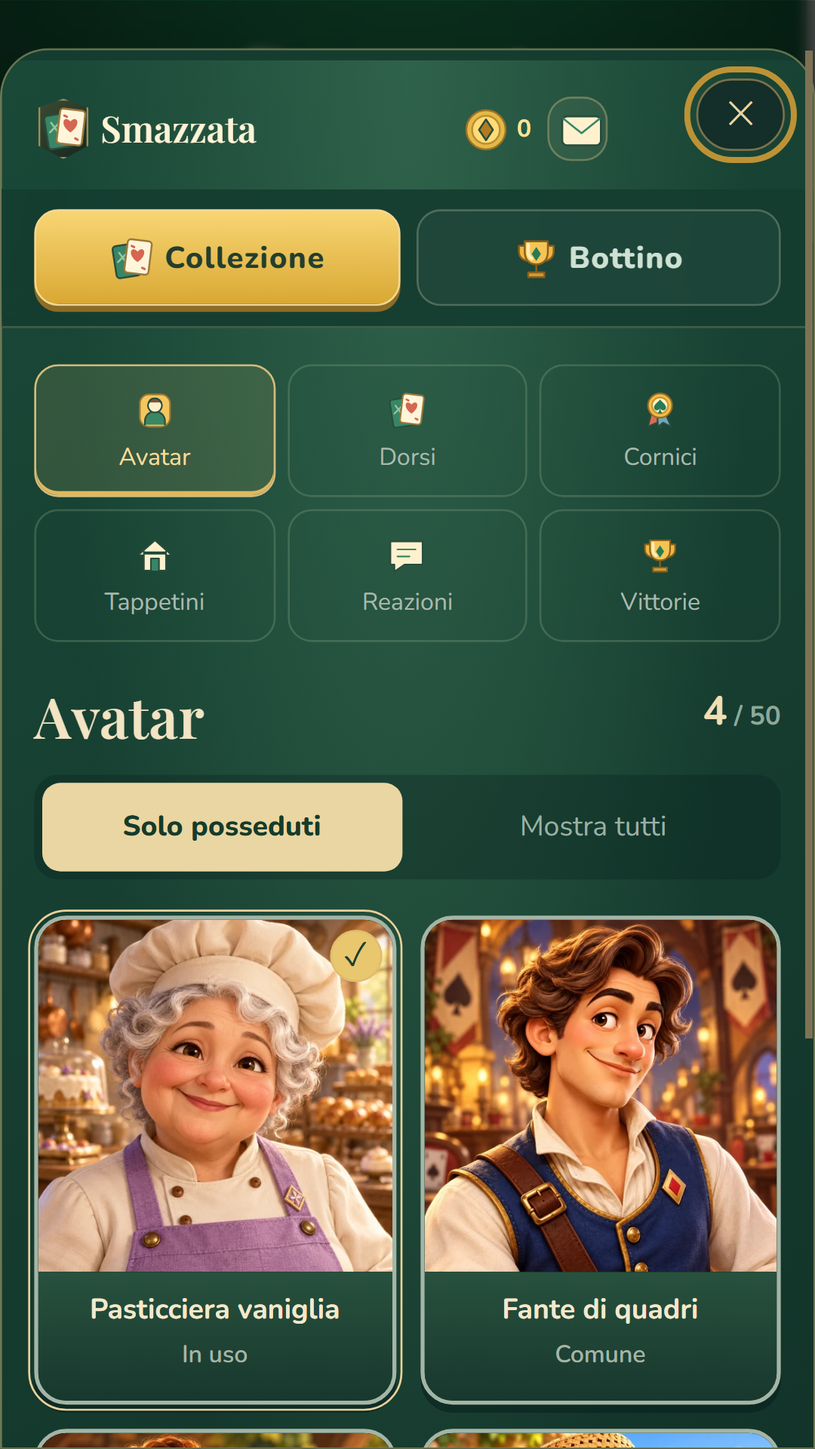
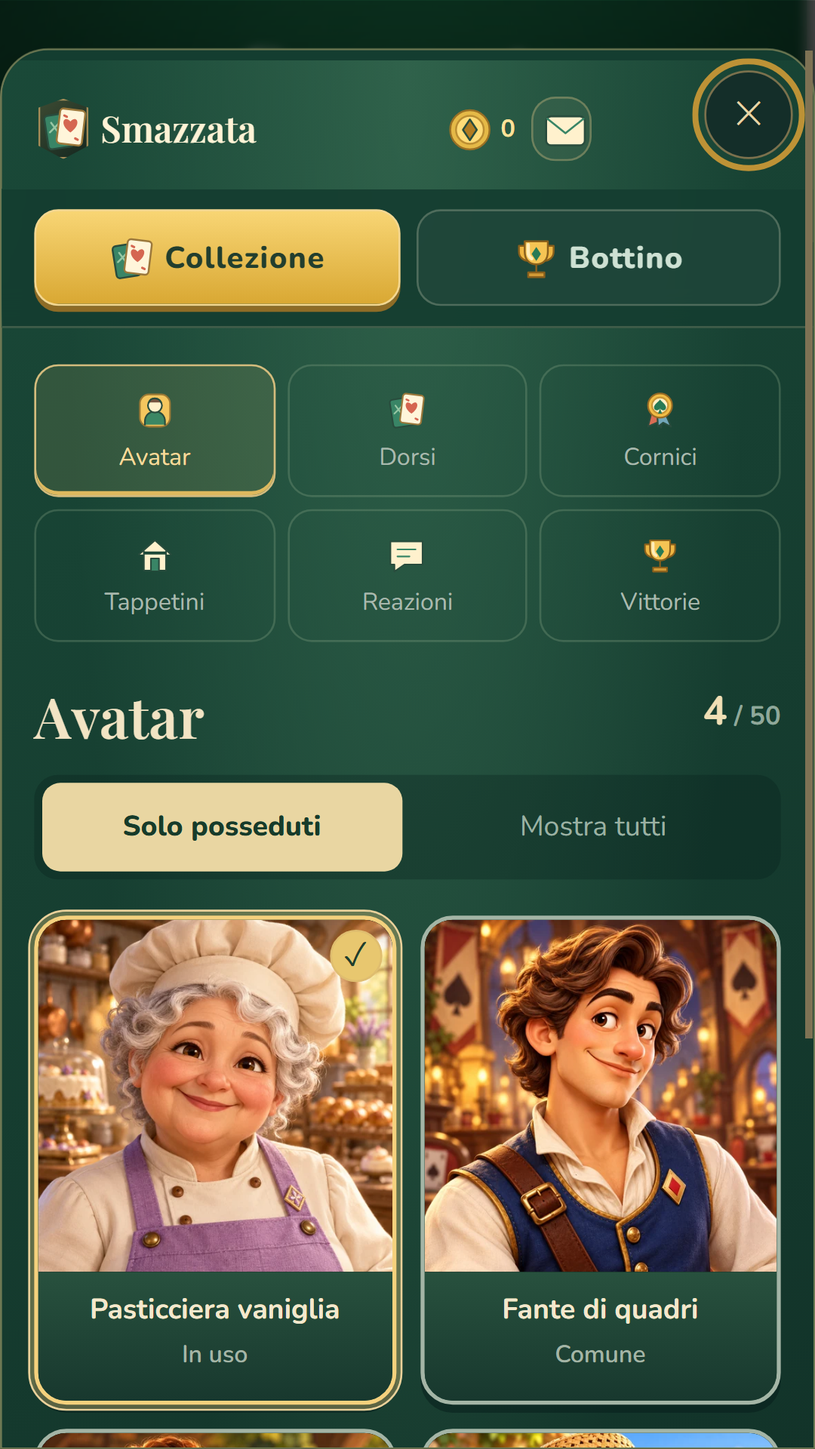
Rifinisce collezione e premi sui telefoni piccoli

diff --git a/public/js/chests.js b/public/js/chests.js
@@ -73,7 +73,7 @@ function chestReveal(reward) {
   openModal('chestReward',collectionShell('loot',`<section class="chest-reveal ${reduce?'':'is-opening'}" data-rarity="${rarity.id}">
     <h2>${t(reward.purchase?'Acquisto completato':'Il tuo premio')}</h2><button class="chest-stage" data-act="chestSkip" data-chest-type="${reward.chestType || reward.rarity}" aria-label="${t('Tocca per scoprire il premio')}"><div class="chest-burst"></div><div class="chest-sprite"></div>${Array.from({length:8},(_,i)=>`<i class="chest-spark" style="--spark:${i}"></i>`).join('')}</button>
     <button class="btn small chest-skip" data-act="chestSkip">${t('Salta animazione')}</button>
-    <div class="chest-prize" hidden role="status"><div class="chest-prize-art">${a.html}</div><span class="avatar-rarity" data-rarity="${rarity.id}" ${reward.kind==='coins'?'hidden':''}>${t(rarity.name)}</span><h3>${reward.kind==='coins'?reward.coins+' ':''}${esc(t(a.name))}</h3><p>${reward.kind==='coins'?t('Saldo aggiornato'):reward.duplicate?t('Doppione')+' · +'+reward.coins+' '+t('Monete'):t('Nuovo oggetto nella tua collezione')}</p><div class="row"><button class="btn primary" data-act="chestEquip" ${a.kind==='coins'?'hidden':''} data-kind="${a.kind}" data-item-id="${a.id}">${a.kind==='avatar'?t('Usa avatar'):t('Usa questo stile')}</button><button class="btn" data-act="${reward.purchase?'collection':'chests'}">${t('Continua')}</button></div></div></section>`));
+    <div class="chest-prize" hidden role="status"><div class="chest-prize-art">${a.html}</div><span class="avatar-rarity" data-rarity="${rarity.id}" ${reward.kind==='coins'?'hidden':''}>${t(rarity.name)}</span><h3>${reward.kind==='coins'?reward.coins+' ':''}${esc(t(a.name))}</h3><p>${reward.kind==='coins'?t('Saldo aggiornato'):reward.duplicate?t('Doppione')+' · +'+reward.coins+' '+t('Monete'):t('Nuovo oggetto nella tua collezione')}</p><div class="row"><button class="btn chest-equip" data-act="chestEquip" ${a.kind==='coins'?'hidden':''} data-kind="${a.kind}" data-item-id="${a.id}">${a.kind==='avatar'?t('Usa avatar'):t('Usa questo stile')}</button><button class="btn primary chest-continue" data-act="${reward.purchase?'collection':'chests'}">${t('Continua')}</button></div></div></section>`));
   $('#modal .modal-box').scrollTop=0;
   if(reduce)handlers.chestSkip();else S.chestRevealTimer=setTimeout(()=>{if(S.modalKind==='chestReward')handlers.chestSkip();},1900);
 }
@@ -83,6 +83,8 @@ async function chestSubmit(request) {
   const owner=S.token;
   store.set('bur_chest_request',{...request,owner:S.token});
   for(const el of $$('#modal .modal-content button'))el.disabled=true;
+  const opening=$('#modal [data-act=chestOpen][data-id="'+CSS.escape(request.id||'')+'"]');
+  if(opening){opening.setAttribute('aria-busy','true');opening.querySelector('small').textContent=t('Apertura in corso…');}
   try {
     const payload=request.type==='open'?{id:request.id}:{itemId:request.itemId,requestId:request.requestId};
     const r=await emit(request.type==='open'?'openChest':'buyCollectionItem',payload);
@@ -116,14 +118,18 @@ Object.assign(handlers,{
     clearTimeout(S.chestRevealTimer);const root=$('#modal .chest-reveal');if(!root||root.classList.contains('is-revealed'))return;
     Sound.chest(root.dataset.rarity);root.querySelector('.chest-stage').disabled=true;root.classList.remove('is-opening');root.classList.add('is-revealed');
     root.querySelector('.chest-prize').hidden=false;root.querySelector('.chest-skip').hidden=true;
-    root.querySelector('.chest-prize button:not([hidden])')?.focus({preventScroll:true});
+    root.querySelector('.chest-continue')?.focus({preventScroll:true});
   },
   async chestEquip(el){
+    if(S.chestEquipBusy)return;
+    S.chestEquipBusy=true;el.disabled=true;el.setAttribute?.('aria-busy','true');
+    try{
     const owner=S.token,item=collectionItems().find(x=>x.id===el.dataset.itemId);
     if(el.dataset.kind!=='avatar'){if(await equipCosmetic(el.dataset.kind,el.dataset.itemId)&&owner===S.token){confirmEquipped(item);if(S.chestReward?.purchase)await collectionModal(item.kind);else await chestsModal();}return;}
     const p=await emit('profile');if(owner!==S.token||!p.ok)return;
     const r=await emit('setAvatar',{id:el.dataset.itemId,c:p.avatar?.c||p.colors[0]});
     if(owner===S.token&&r.ok){confirmEquipped(item);if(S.chestReward?.purchase)await collectionModal(item.kind);else await chestsModal();}
+    }finally{S.chestEquipBusy=false;el.removeAttribute?.('aria-busy');if(el.isConnected)el.disabled=false;}
   }
 });
 socket.on('chests',data=>{

diff --git a/server/finishing-ui-flow.js b/server/finishing-ui-flow.js
@@ -1,0 +1,23 @@
+'use strict';
+// Percorsi reali su un profilo temporaneo: layout stretto, rete lenta e pressioni ripetute.
+module.exports=async(cdp,shot)=>{
+ for(const width of [320,375]){
+  await cdp.send('Emulation.setDeviceMetricsOverride',{width,height:568,deviceScaleFactor:1,mobile:true});
+  for(const text of ['normale','enorme']){
+   await cdp.run(`hideIntro();S.prefs.anim=false;S.prefs.text='${text}';applyPrefs();await collectionModal('avatar');`);
+   for(const kind of ['avatar','back','frame','felt','reaction','victory']){
+    await cdp.run(`handlers.collectionCategory({dataset:{kind:'${kind}'}});const box=document.querySelector('#modal .modal-box');if(box.scrollWidth>box.clientWidth+1)throw Error('Collezione fuori schermo: ${kind}/${text}/${width}');const last=document.querySelector('.collection-card:last-child');if(last){last.scrollIntoView({block:'end'});if(last.getBoundingClientRect().bottom>box.getBoundingClientRect().bottom+2)throw Error('Ultima riga tagliata');}const close=document.querySelector('.modal-close');if(close.getBoundingClientRect().width<44)throw Error('Chiusura troppo piccola');`);
+   }
+   await cdp.run(`await collectionModal('avatar');await handlers.collectionSelect(document.querySelector('.collection-card'));const box=document.querySelector('.modal-box'),button=document.querySelector('[data-act=collectionEquip]');button.scrollIntoView({block:'end'});const r=button.getBoundingClientRect();if(r.left<0||r.right>innerWidth+1||r.bottom>box.getBoundingClientRect().bottom+2)throw Error('Comando equipaggiamento tagliato');`);
+   await shot('rifiniture-anteprima-'+width+'-'+text);
+  }
+ }
+ await cdp.run(`S.prefs.text='normale';applyPrefs();await chestsModal();window.__finishEmit=emit;window.__openCount=0;emit=async function(ev,...args){if(ev==='openChest'){__openCount++;await new Promise(r=>setTimeout(r,250));}return __finishEmit(ev,...args);};const tile=document.querySelector('[data-act=chestOpen]');window.__opening=handlers.chestOpen(tile);handlers.chestOpen(tile);if(tile.getAttribute('aria-busy')!=='true'||!tile.textContent.includes(t('Apertura in corso…')))throw Error('Nessun riscontro apertura');await __opening;emit=__finishEmit;if(__openCount!==1||S.modalKind!=='chestReward')throw Error('Apertura ripetuta');if(document.activeElement!==document.querySelector('.chest-continue'))throw Error('Focus non sul proseguimento');if(document.querySelectorAll('.chest-prize .primary').length!==1)throw Error('Gerarchia premio ambigua');`);
+ await shot('rifiniture-premio-compatto');
+ await cdp.run(`window.__equipCount=0;emit=async function(ev,...args){if(ev==='profile'||ev==='setCosmetic'){__equipCount++;await new Promise(r=>setTimeout(r,250));}return __finishEmit(ev,...args);};const button=document.querySelector('[data-act=chestEquip]');window.__equipFirst=handlers.chestEquip(button);await handlers.chestEquip(button);await __equipFirst;emit=__finishEmit;if(__equipCount!==1||S.chestEquipBusy)throw Error('Equipaggiamento duplicato o bloccato');`);
+ await cdp.run(`chestReveal(S.chestReward);emit=async()=>{throw Error('Errore di rete simulato');};const button=document.querySelector('[data-act=chestEquip]');let failed=false;try{await handlers.chestEquip(button);}catch{failed=true;}finally{emit=__finishEmit;}if(!failed||S.chestEquipBusy||button.disabled||button.hasAttribute('aria-busy'))throw Error('Equipaggiamento bloccato dopo errore');S.prefs.contrast=true;applyPrefs();await collectionModal('avatar');const label=document.querySelector('.collection-card-label');if(getComputedStyle(label).color!=='rgb(255, 255, 255)')throw Error('Testo senza alto contrasto');S.prefs.contrast=false;applyPrefs();`);
+ await cdp.send('Emulation.setEmulatedMedia',{features:[{name:'prefers-reduced-motion',value:'reduce'}]});
+ await cdp.run(`S.prefs.anim=true;applyPrefs();chestReveal({kind:'coins',coins:30,rarity:'common',chestType:'common'});if(document.querySelector('.chest-prize').hidden||getComputedStyle(document.querySelector('.chest-prize')).animationName!=='none')throw Error('Movimento ridotto ignorato');const b=document.querySelector('.chest-continue');b.scrollIntoView({block:'end'});if(b.getBoundingClientRect().bottom>innerHeight+1)throw Error('Continua non raggiungibile');`);
+ await shot('rifiniture-movimento-ridotto');
+ console.log('Rifiniture OK: 24 viste categoria a 320/375 px e testo normale/enorme, anteprime, apertura lenta senza duplicati, equipaggiamento unico, premio e movimento ridotto.');
+};

diff --git a/launcher/sw.js b/launcher/sw.js
@@ -1,7 +1,7 @@
 // Service worker della pagina d'ingresso: salva la pagina e la copia del gioco (cartella gioca/)
 // così, senza internet, l'app si apre lo stesso e si può giocare contro il computer.
 // "Prima la rete": da collegati si usa sempre la versione più recente.
-const CACHE = 'burraco-ingresso-v92';
+const CACHE = 'burraco-ingresso-v93';
 const SHELL = [
   'gioca/js/collection.js', 'gioca/collection.css', 'gioca/shared/cosmetics.js', 'gioca/js/cosmetics.js', 'gioca/cosmetics.css', 'gioca/art/cosmetics/back/trama-rubino.webp', 'gioca/art/cosmetics/back/picche-del-bosco.webp', 'gioca/art/cosmetics/back/fiordaliso.webp', 'gioca/art/cosmetics/back/filo-di-rame.webp', 'gioca/art/cosmetics/back/vento-marino.webp', 'gioca/art/cosmetics/back/lavanda.webp', 'gioca/art/cosmetics/back/geometrie-salvia.webp', 'gioca/art/cosmetics/back/righe-del-mazziere.webp', 'gioca/art/cosmetics/back/mosaico-terracotta.webp', 'gioca/art/cosmetics/back/foglie-d-autunno.webp', 'gioca/art/cosmetics/back/rosa-dei-venti.webp', 'gioca/art/cosmetics/back/vetri-di-murano.webp', 'gioca/art/cosmetics/back/piuma-di-pavone.webp', 'gioca/art/cosmetics/back/orologio-lunare.webp', 'gioca/art/cosmetics/back/giardino-d-inverno.webp', 'gioca/art/cosmetics/back/scaglie-d-ambra.webp', 'gioca/art/cosmetics/back/biblioteca-arcana.webp', 'gioca/art/cosmetics/back/cometa-di-cristallo.webp', 'gioca/art/cosmetics/back/drago-d-ossidiana.webp', 'gioca/art/cosmetics/back/sigillo-dell-aurora.webp', 'gioca/art/cosmetics/felt/panno-foresta.webp', 'gioca/art/cosmetics/felt/velluto-blu-notte.webp', 'gioca/art/cosmetics/felt/cotone-bordeaux.webp', 'gioca/art/cosmetics/felt/ardesia-soffice.webp', 'gioca/art/cosmetics/felt/tessuto-petrolio.webp', 'gioca/art/cosmetics/felt/muschio.webp', 'gioca/art/cosmetics/felt/zaffiro-fume.webp', 'gioca/art/cosmetics/felt/crepuscolo-viola.webp', 'gioca/art/cosmetics/felt/sabbia-d-ulivo.webp', 'gioca/art/cosmetics/felt/terracotta-scura.webp', 'gioca/art/cosmetics/felt/salotto-veneziano.webp', 'gioca/art/cosmetics/felt/serra-al-tramonto.webp', 'gioca/art/cosmetics/felt/salone-d-ambra.webp', 'gioca/art/cosmetics/felt/osservatorio.webp', 'gioca/art/cosmetics/felt/riva-notturna.webp', 'gioca/art/cosmetics/felt/biblioteca-di-noce.webp', 'gioca/art/cosmetics/felt/santuario-di-giada.webp', 'gioca/art/cosmetics/felt/palazzo-delle-nuvole.webp', 'gioca/art/cosmetics/felt/forgia-celeste.webp', 'gioca/art/cosmetics/felt/giardino-dell-eternita.webp', 'gioca/art/cosmetics/reaction/orso-applaude.webp', 'gioca/art/cosmetics/reaction/volpe-saluta.webp', 'gioca/art/cosmetics/reaction/gatto-ringrazia.webp', 'gioca/art/cosmetics/reaction/coniglio-sorpreso.webp', 'gioca/art/cosmetics/reaction/gufo-riflette.webp', 'gioca/art/cosmetics/reaction/lontra-ride.webp', 'gioca/art/cosmetics/reaction/riccio-incoraggia.webp', 'gioca/art/cosmetics/reaction/pinguino-approva.webp', 'gioca/art/cosmetics/reaction/panda-rosso-abbraccia.webp', 'gioca/art/cosmetics/reaction/tartaruga-aspetta.webp', 'gioca/art/cosmetics/reaction/leone-si-inchina.webp', 'gioca/art/cosmetics/reaction/prestigiatore-festeggia.webp', 'gioca/art/cosmetics/reaction/gufo-meravigliato.webp', 'gioca/art/cosmetics/reaction/lupo-ammicca.webp', 'gioca/art/cosmetics/reaction/pavone-elegante.webp', 'gioca/art/cosmetics/reaction/alchimista-brillante.webp', 'gioca/art/cosmetics/reaction/grifone-esulta.webp', 'gioca/art/cosmetics/reaction/unicorno-incanta.webp', 'gioca/art/cosmetics/reaction/gatto-stregone-trionfa.webp', 'gioca/art/cosmetics/reaction/fenice-celebra.webp',
   'gioca/art/chests/chest-opening.webp', 'gioca/art/chests/chest-rare.webp', 'gioca/art/chests/chest-epic.webp', 'gioca/art/chests/chest-legendary.webp', 'gioca/js/chests.js',

diff --git a/public/collection.css b/public/collection.css
@@ -72,3 +72,26 @@ body[data-text=grande] .compact-progress .progress-reward h3,body[data-text=enor
 .collection-header:has(.collection-wallet){display:grid;grid-template-columns:minmax(0,1fr) auto auto}.collection-header .collection-wallet{margin-left:0}.collection-header:has(.collection-wallet) .collection-brand strong{white-space:nowrap}.collection-header:has(.collection-wallet) .collection-brand{overflow:hidden}@media(max-width:360px){.collection-header:has(.collection-wallet) .collection-crest{display:none}.collection-header:has(.collection-wallet) .collection-brand strong{font-size:16px}}
 
 .collection-app .chest-history .coin-prize{width:42px;height:42px;flex:none}.collection-app .chest-history .coin-prize>.ui-icon{width:36px;height:36px;filter:none}
+
+/* Rifiniture di lettura: nessun comando sacrificato su schermi bassi o testo grande. */
+.modal-box:has(.collection-app)>.modal-close{width:44px;height:44px;min-width:44px;top:10px;right:10px}
+.collection-simple .collection-header{padding-right:66px}
+.collection-simple .collection-card-label b,.collection-simple .collection-inspector h3,.collection-simple .collection-categories>button span{overflow-wrap:anywhere}
+.collection-simple .collection-card.is-equipped{border-color:#f5d17d;box-shadow:0 0 0 2px #f5d17d55,0 4px 0 #061c1980}
+.collection-simple .collection-back{min-height:44px;text-align:left}
+.collection-simple .collection-content{padding-bottom:calc(26px + env(safe-area-inset-bottom,0px))}
+.collection-simple .chest-reveal h2{padding-right:0}
+.collection-simple .chest-prize .row{display:flex;flex-direction:column;align-items:stretch;max-width:320px;margin:18px auto 0}
+.collection-simple .chest-prize .chest-continue{order:-1;background:linear-gradient(#f8d574,#d9a833);color:#223e2e;border-color:#f4d790;font-weight:800}
+.collection-simple .chest-prize .btn{width:100%;min-height:48px;border-radius:12px;font-size:16px}
+.collection-simple .inventory-chest[aria-busy=true]{opacity:1;border-style:dashed!important}
+.collection-simple .inventory-chest[aria-busy=true] .chest-sprite{animation:chest-wait 1s ease-in-out infinite alternate}
+@keyframes chest-wait{to{filter:drop-shadow(0 0 12px #efce7b);opacity:.7}}
+@media(max-width:700px){.collection-simple .collection-inspector-art{height:clamp(150px,32dvh,280px)}.collection-simple .collection-inspector-copy{padding:0 16px 20px}.collection-simple .collection-card:hover{transform:none}}
+@media(max-height:650px){.collection-simple .chest-prize-art{width:120px;height:120px}.collection-simple .chest-reveal h2{font-size:24px}.collection-simple .chest-prize h3{margin:10px 0}.collection-simple .chest-prize p{margin:8px 0}.collection-simple .chest-prize .row{margin-top:12px}}
+body[data-text=grande] .collection-simple .collection-card-label b,body[data-text=enorme] .collection-simple .collection-card-label b{font-size:16px}
+body[data-text=grande] .collection-simple .collection-categories>button,body[data-text=enorme] .collection-simple .collection-categories>button{font-size:14px}
+body.contrast .collection-simple .collection-card.cx-item,body.contrast .collection-simple .collection-inspector{background:#071b14!important;border-color:#fff;color:#fff}
+body.contrast .collection-simple .collection-card-label{background:#071b14;color:#fff}body.contrast .collection-simple .collection-card-label small{color:#fff}
+body.noanim .collection-simple .inventory-chest{transition:none}body.noanim .inventory-chest[aria-busy=true] .chest-sprite{animation:none}
+@media(prefers-reduced-motion:reduce){.inventory-chest[aria-busy=true] .chest-sprite{animation:none}}

diff --git a/public/sw.js b/public/sw.js
@@ -1,7 +1,7 @@
 // Service worker: notifiche e copia del gioco per giocare anche senza internet.
 // "Prima la rete": da collegati si usa sempre la versione più recente (e se ne salva una copia);
 // senza rete si usa l'ultima copia salvata. La connessione di gioco (socket.io) non passa mai dalla copia.
-const CACHE = 'burraco-gioco-v92';
+const CACHE = 'burraco-gioco-v93';
 const SHELL = [
   'js/collection.js', 'collection.css', 'shared/cosmetics.js', 'js/cosmetics.js', 'cosmetics.css', 'art/cosmetics/back/trama-rubino.webp', 'art/cosmetics/back/picche-del-bosco.webp', 'art/cosmetics/back/fiordaliso.webp', 'art/cosmetics/back/filo-di-rame.webp', 'art/cosmetics/back/vento-marino.webp', 'art/cosmetics/back/lavanda.webp', 'art/cosmetics/back/geometrie-salvia.webp', 'art/cosmetics/back/righe-del-mazziere.webp', 'art/cosmetics/back/mosaico-terracotta.webp', 'art/cosmetics/back/foglie-d-autunno.webp', 'art/cosmetics/back/rosa-dei-venti.webp', 'art/cosmetics/back/vetri-di-murano.webp', 'art/cosmetics/back/piuma-di-pavone.webp', 'art/cosmetics/back/orologio-lunare.webp', 'art/cosmetics/back/giardino-d-inverno.webp', 'art/cosmetics/back/scaglie-d-ambra.webp', 'art/cosmetics/back/biblioteca-arcana.webp', 'art/cosmetics/back/cometa-di-cristallo.webp', 'art/cosmetics/back/drago-d-ossidiana.webp', 'art/cosmetics/back/sigillo-dell-aurora.webp', 'art/cosmetics/felt/panno-foresta.webp', 'art/cosmetics/felt/velluto-blu-notte.webp', 'art/cosmetics/felt/cotone-bordeaux.webp', 'art/cosmetics/felt/ardesia-soffice.webp', 'art/cosmetics/felt/tessuto-petrolio.webp', 'art/cosmetics/felt/muschio.webp', 'art/cosmetics/felt/zaffiro-fume.webp', 'art/cosmetics/felt/crepuscolo-viola.webp', 'art/cosmetics/felt/sabbia-d-ulivo.webp', 'art/cosmetics/felt/terracotta-scura.webp', 'art/cosmetics/felt/salotto-veneziano.webp', 'art/cosmetics/felt/serra-al-tramonto.webp', 'art/cosmetics/felt/salone-d-ambra.webp', 'art/cosmetics/felt/osservatorio.webp', 'art/cosmetics/felt/riva-notturna.webp', 'art/cosmetics/felt/biblioteca-di-noce.webp', 'art/cosmetics/felt/santuario-di-giada.webp', 'art/cosmetics/felt/palazzo-delle-nuvole.webp', 'art/cosmetics/felt/forgia-celeste.webp', 'art/cosmetics/felt/giardino-dell-eternita.webp', 'art/cosmetics/reaction/orso-applaude.webp', 'art/cosmetics/reaction/volpe-saluta.webp', 'art/cosmetics/reaction/gatto-ringrazia.webp', 'art/cosmetics/reaction/coniglio-sorpreso.webp', 'art/cosmetics/reaction/gufo-riflette.webp', 'art/cosmetics/reaction/lontra-ride.webp', 'art/cosmetics/reaction/riccio-incoraggia.webp', 'art/cosmetics/reaction/pinguino-approva.webp', 'art/cosmetics/reaction/panda-rosso-abbraccia.webp', 'art/cosmetics/reaction/tartaruga-aspetta.webp', 'art/cosmetics/reaction/leone-si-inchina.webp', 'art/cosmetics/reaction/prestigiatore-festeggia.webp', 'art/cosmetics/reaction/gufo-meravigliato.webp', 'art/cosmetics/reaction/lupo-ammicca.webp', 'art/cosmetics/reaction/pavone-elegante.webp', 'art/cosmetics/reaction/alchimista-brillante.webp', 'art/cosmetics/reaction/grifone-esulta.webp', 'art/cosmetics/reaction/unicorno-incanta.webp', 'art/cosmetics/reaction/gatto-stregone-trionfa.webp', 'art/cosmetics/reaction/fenice-celebra.webp',
   'art/chests/chest-opening.webp', 'art/chests/chest-rare.webp', 'art/chests/chest-epic.webp', 'art/chests/chest-legendary.webp', 'js/chests.js',

diff --git a/public/js/collection.js b/public/js/collection.js
@@ -49,7 +49,7 @@ function renderCollection(){
     ${!S.collectionOnline?`<p class="collection-notice">${t('Copia offline: collegati per cambiare stile.')}</p>`:''}
     ${collectionBaseChoices(kind)}
     <div class="collection-ownership" role="group" aria-label="${t('Disponibilità')}"><button data-act="collectionOwnership" data-owned="true" aria-pressed="${S.collectionOnlyOwned!==false}">${t('Solo posseduti')}</button><button data-act="collectionOwnership" data-owned="false" aria-pressed="${S.collectionOnlyOwned===false}">${t('Mostra tutti')}</button></div>
-    <div class="collection-grid cx-grid" role="group" aria-label="${t(category.name)}">${items.map(x=>`<button class="collection-card cx-item ${owned.has(x.id)?'':'is-locked'} ${collectionEquipped(x)?'is-equipped':''} ${newIds.has(x.id)?'is-new':''}" data-act="collectionSelect" data-id="${x.id}" data-rarity="${x.rarity}" data-kind="${kind}" aria-pressed="${selected?.id===x.id}" aria-label="${esc(t(x.name))}, ${t(rarities.find(r=>r.id===x.rarity).name)}, ${t(owned.has(x.id)?'Posseduto':'Non posseduto')}"><div class="collection-card-art">${collectionArt(x)}</div><span class="collection-card-label"><b>${esc(t(x.name))}</b><small>${t(collectionEquipped(x)?'In uso':owned.has(x.id)?rarities.find(r=>r.id===x.rarity).name:'Non posseduto')}</small></span>${newIds.has(x.id)?`<span class="collection-new">${t('Nuovo')}</span>`:''}${collectionEquipped(x)?`<span class="collection-tick" aria-label="${t('In uso')}">✓</span>`:''}</button>`).join('')||`<div class="collection-empty">${uiIcon('cards')}<h3>${t('Nessun oggetto da mostrare')}</h3><p>${t('Trova nuovi oggetti nelle chest oppure scegli Mostra tutti.')}</p><button class="collection-primary" data-act="chests">${t('Vai al bottino')}</button></div>`}</div></section>${inspector}</div>`));
+    <div class="collection-grid cx-grid" role="group" aria-label="${t(category.name)}">${items.map(x=>`<button class="collection-card cx-item ${owned.has(x.id)?'':'is-locked'} ${collectionEquipped(x)?'is-equipped':''} ${newIds.has(x.id)?'is-new':''}" data-act="collectionSelect" data-id="${x.id}" data-rarity="${x.rarity}" data-kind="${kind}" aria-pressed="${selected?.id===x.id}" aria-label="${esc(t(x.name))}, ${t(rarities.find(r=>r.id===x.rarity).name)}, ${t(collectionEquipped(x)?'In uso':owned.has(x.id)?'Posseduto':'Non posseduto')}"><div class="collection-card-art">${collectionArt(x)}</div><span class="collection-card-label"><b>${esc(t(x.name))}</b><small>${t(collectionEquipped(x)?'In uso':owned.has(x.id)?rarities.find(r=>r.id===x.rarity).name:'Non posseduto')}</small></span>${newIds.has(x.id)?`<span class="collection-new">${t('Nuovo')}</span>`:''}${collectionEquipped(x)?`<span class="collection-tick" aria-label="${t('In uso')}">✓</span>`:''}</button>`).join('')||`<div class="collection-empty">${uiIcon('cards')}<h3>${t('Nessun oggetto da mostrare')}</h3><p>${t('Trova nuovi oggetti nelle chest oppure scegli Mostra tutti.')}</p><button class="collection-primary" data-act="chests">${t('Vai al bottino')}</button></div>`}</div></section>${inspector}</div>`));
   const scrollKey=$('#modal .collection-layout')?.dataset.scrollKey;$('#modal .modal-box').scrollTop=S.collectionPositions?.[scrollKey]||0;
 }
 Object.assign(handlers,{

diff --git a/server/chest-uitest.js b/server/chest-uitest.js
@@ -31,6 +31,7 @@ const wait=ms=>new Promise(r=>setTimeout(r,ms));
   await cdp.send('Emulation.setDeviceMetricsOverride',{width:process.argv.includes('--small')?320:375,height:812,deviceScaleFactor:1,mobile:true});
   await cdp.send('Page.navigate',{url:'http://localhost:3992'});await wait(1800);
   const shot=async name=>{await cdp.run('await document.fonts.ready;');const r=await cdp.send('Page.captureScreenshot',{format:'png'});fs.writeFileSync(path.join(out,name+'.png'),Buffer.from(r.data,'base64'));};
+  if(process.argv.includes('--finishing')){await require('./finishing-ui-flow')(cdp,shot);assert.deepEqual(errors,[]);return;}
   if(process.argv.includes('--languages')){await require('./localization-ui-flow')(cdp,shot);assert.deepEqual(errors,[]);return;}
   if(process.argv.includes('--first-use')){await require('./first-use-flow')(cdp,shot);assert.deepEqual(errors,[]);return;}
   if(process.argv.includes('--interruptions')){await require('./interruption-ui-flow')(cdp,shot);assert.deepEqual(errors,[]);return;}

diff --git a/public/lingue/es.js b/public/lingue/es.js
@@ -2261,6 +2261,7 @@ I18N.load({"Per calare servono almeno 3 carte: selezionale e trascinale insieme"
 "il computer gioca al tuo posto, puoi tornare quando vuoi":"el ordenador juega por ti; puedes volver cuando quieras",
 "L’allenamento viene chiuso.":"Esta partida de práctica terminará.",
 "Puoi riprendere l’allenamento dalla home.":"Puedes reanudar la práctica desde el inicio.",
+"Apertura in corso…":"Abriendo…",
 "Partita":"Partida",
 "Giocatori":"Jugadores",
 "Eliminato chi arriva a":"Eliminado quien llega a",

diff --git a/public/lingue/pt.js b/public/lingue/pt.js
@@ -2261,6 +2261,7 @@ I18N.load({"Per calare servono almeno 3 carte: selezionale e trascinale insieme"
 "il computer gioca al tuo posto, puoi tornare quando vuoi":"o computador joga por você; pode voltar quando quiser",
 "L’allenamento viene chiuso.":"Esta partida de treino será encerrada.",
 "Puoi riprendere l’allenamento dalla home.":"Você pode retomar o treino na tela inicial.",
+"Apertura in corso…":"Abrindo…",
 "Partita":"Partida",
 "Giocatori":"Jogadores",
 "Eliminato chi arriva a":"Eliminado quem chega a",

diff --git a/public/lingue/en.js b/public/lingue/en.js
@@ -2261,6 +2261,7 @@ I18N.load({"Per calare servono almeno 3 carte: selezionale e trascinale insieme"
 "il computer gioca al tuo posto, puoi tornare quando vuoi":"the computer plays for you; you can return whenever you like",
 "L’allenamento viene chiuso.":"This practice game will end.",
 "Puoi riprendere l’allenamento dalla home.":"You can resume practice from the home screen.",
+"Apertura in corso…":"Opening…",
 "Partita":"Game",
 "Giocatori":"Players",
 "Eliminato chi arriva a":"Out when reaching",

diff --git a/public/js/base.js b/public/js/base.js
@@ -4,7 +4,7 @@
 'use strict';
 
   const R = window.BurracoRules;
-  const CLIENT_BUILD = '2026.10.27.1';
+  const CLIENT_BUILD = '2026.10.27.2';
   const $ = (s, el = document) => el.querySelector(s);
   const $$ = (s, el = document) => [...el.querySelectorAll(s)];
   const esc = (s) => String(s).replace(/[&<>"']/g, (c) => ({ '&': '&amp;', '<': '&lt;', '>': '&gt;', '"': '&quot;', "'": '&#39;' }[c]));

diff --git a/store/RIFINITURE-COLLEZIONE-2026-10-27.md b/store/RIFINITURE-COLLEZIONE-2026-10-27.md
@@ -1,0 +1,19 @@
+# Rifiniture della collezione e dei premi
+
+Client `2026.10.27.2`, entrambe le cache offline v93.
+
+- Chiusura delle finestre collezione da 44 px, margini inferiori compatibili con le aree di sistema, testi lunghi a capo.
+- Categorie e nomi degli oggetti più leggibili con testo ingrandito; anteprima proporzionata all’altezza disponibile e segno dell’oggetto in uso più evidente, anche per la lettura assistita.
+- Premio con un solo comando principale, Continua, che riceve il focus; equipaggiamento secondario. Ingombro ridotto sui telefoni bassi.
+- Durante l’apertura la chest indica Apertura in corso; le pressioni ripetute sull’equipaggiamento del premio vengono ignorate fino alla risposta, con rilascio del blocco anche in caso di errore.
+- Alto contrasto migliorato sulle carte della collezione; il riscontro d’attesa rispetta animazioni disattivate e preferenza di sistema.
+
+Nessuna modifica a disponibilità, probabilità, monete, regole o salvataggi. Le musiche non sono state riscritte: i controlli di volume e le preferenze esistenti restano verificati dai test.
+
+## Verifiche
+
+`--finishing`: 24 viste di categoria su 320/375 × 568 px, testo normale/enorme, anteprime, apertura reale rallentata, doppia pressione, equipaggiamento unico e movimento ridotto. Immagini controllate visivamente. Percorso aggiunto a Prove.
+
+Superati anche il percorso completo inventario/chest, 64 schermate nelle quattro lingue, i 71 test di prerilascio e le verifiche rapide. Rigenerate le 34 scene di rilascio e gli screenshot pertinenti.
+
+Questi controlli si svolgono sul PC con dati temporanei. La prova Android nativa precedente riguarda il client 2026.10.27.1; queste rifiniture richiedono la nuova build ufficiale. L’AAB 1.70 e lo ZIP Play-test-1.70 sono precedenti e non vanno presentati come pacchetto aggiornato. Nessuna distribuzione Play o online verificata dal solo push.
